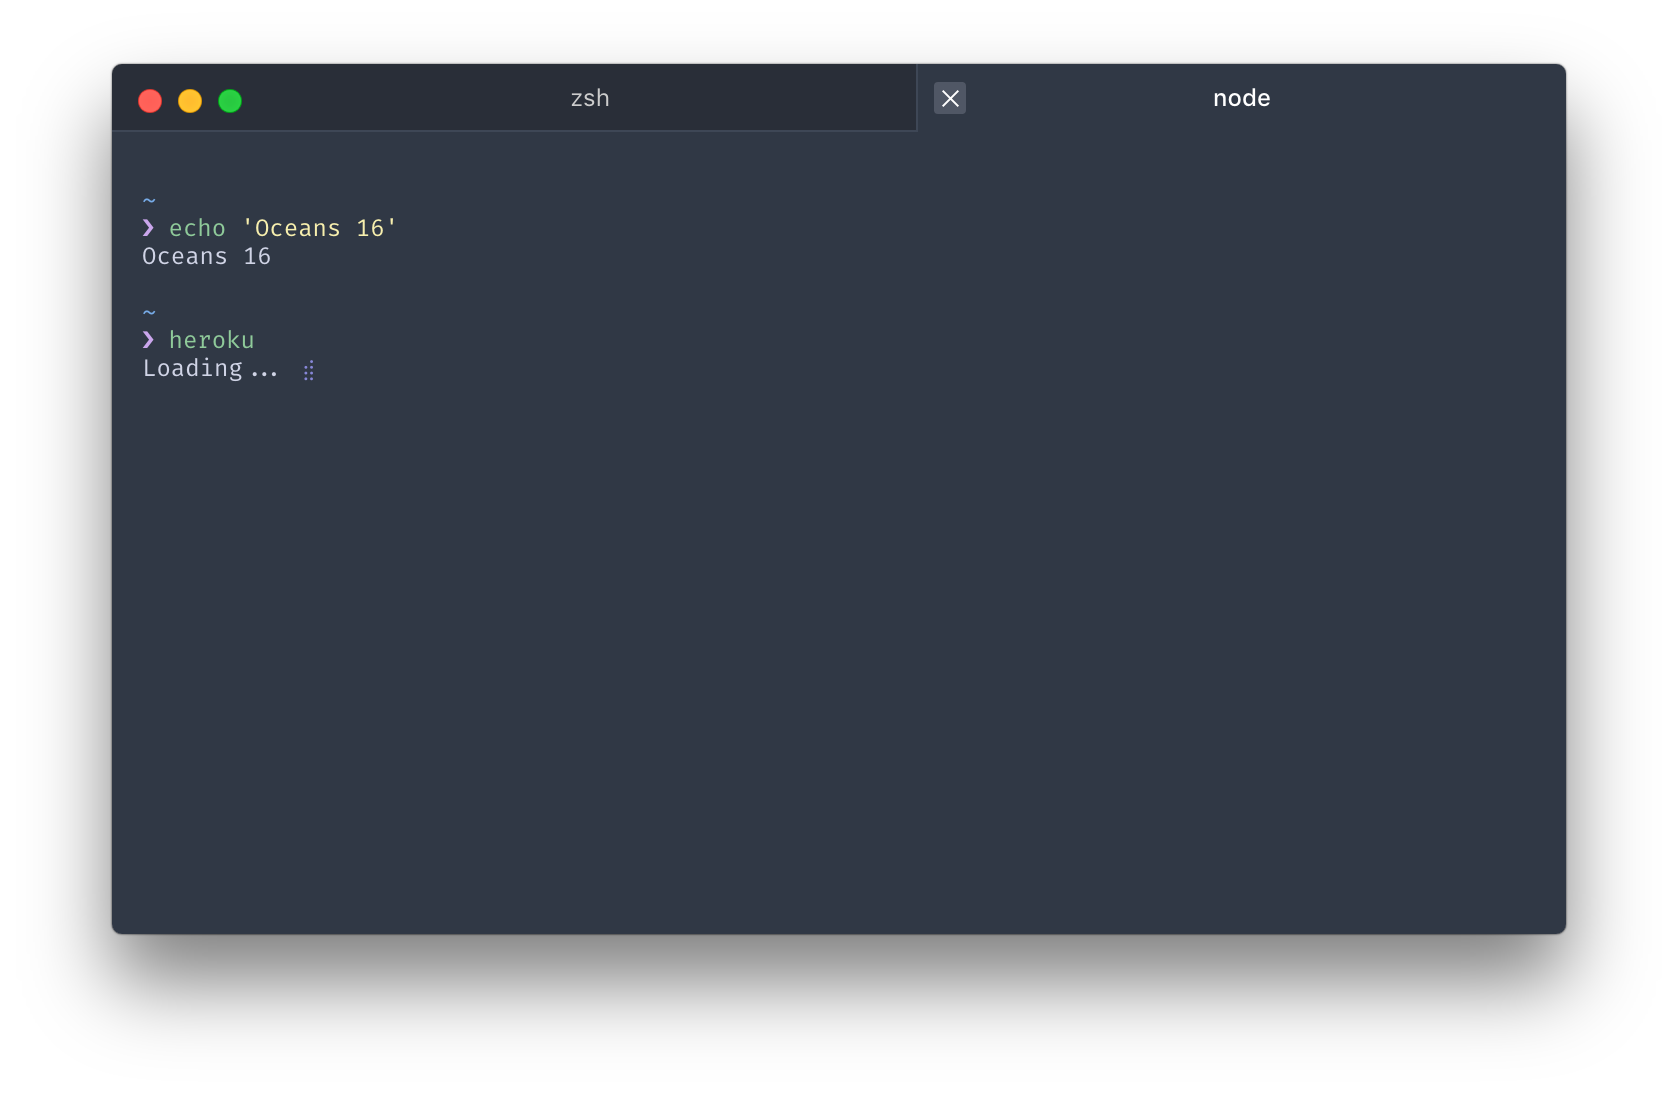
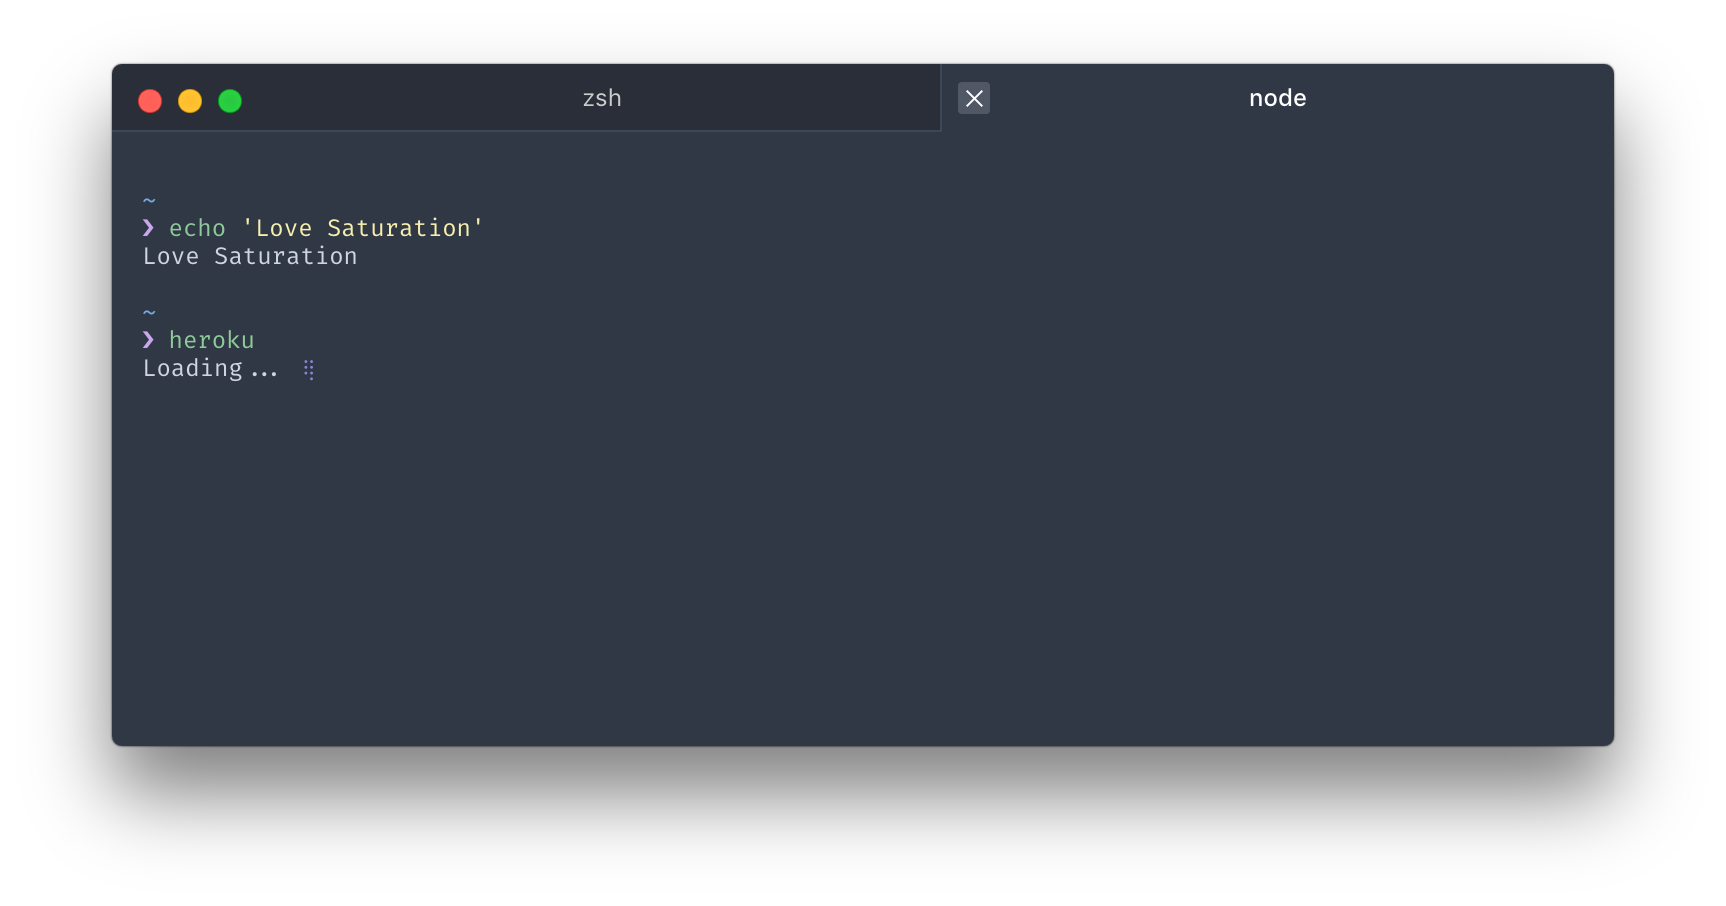
font in readme, new screen

Changed region(s): [[0.062, 0.8035, 0.9297, 0.8962], [0.062, 0.0309, 0.9297, 0.1236], [0.062, 0.1545, 0.2789, 0.4327]]

diff --git a/readme.md b/readme.md
@@ -12,7 +12,7 @@ Add `hyperterm-base16-ocean-saturated` to the plugins array in your `~/.hyperter
 
 ## Additional
 
-Screenshot also uses [Pure](https://github.com/sindresorhus/pure) prompt and [zsh-syntax-highlighting](https://github.com/zsh-users/zsh-syntax-highlighting) plugin for command highlights.
+Screenshot also uses [Pure](https://github.com/sindresorhus/pure) prompt, [zsh-syntax-highlighting](https://github.com/zsh-users/zsh-syntax-highlighting) plugin for command highlights and [Fira Code](https://github.com/tonsky/FiraCode) as font.
 
 
 ## License
